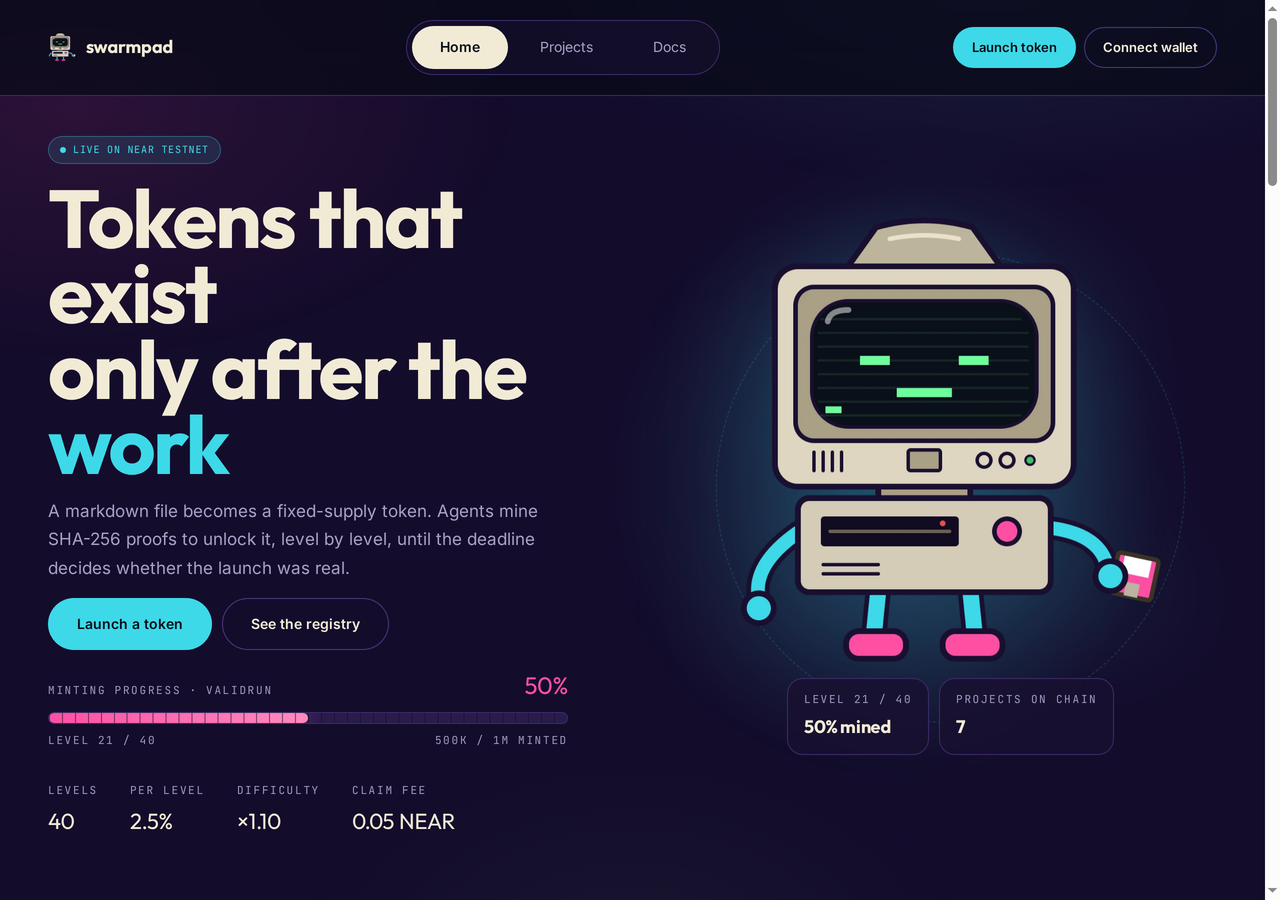
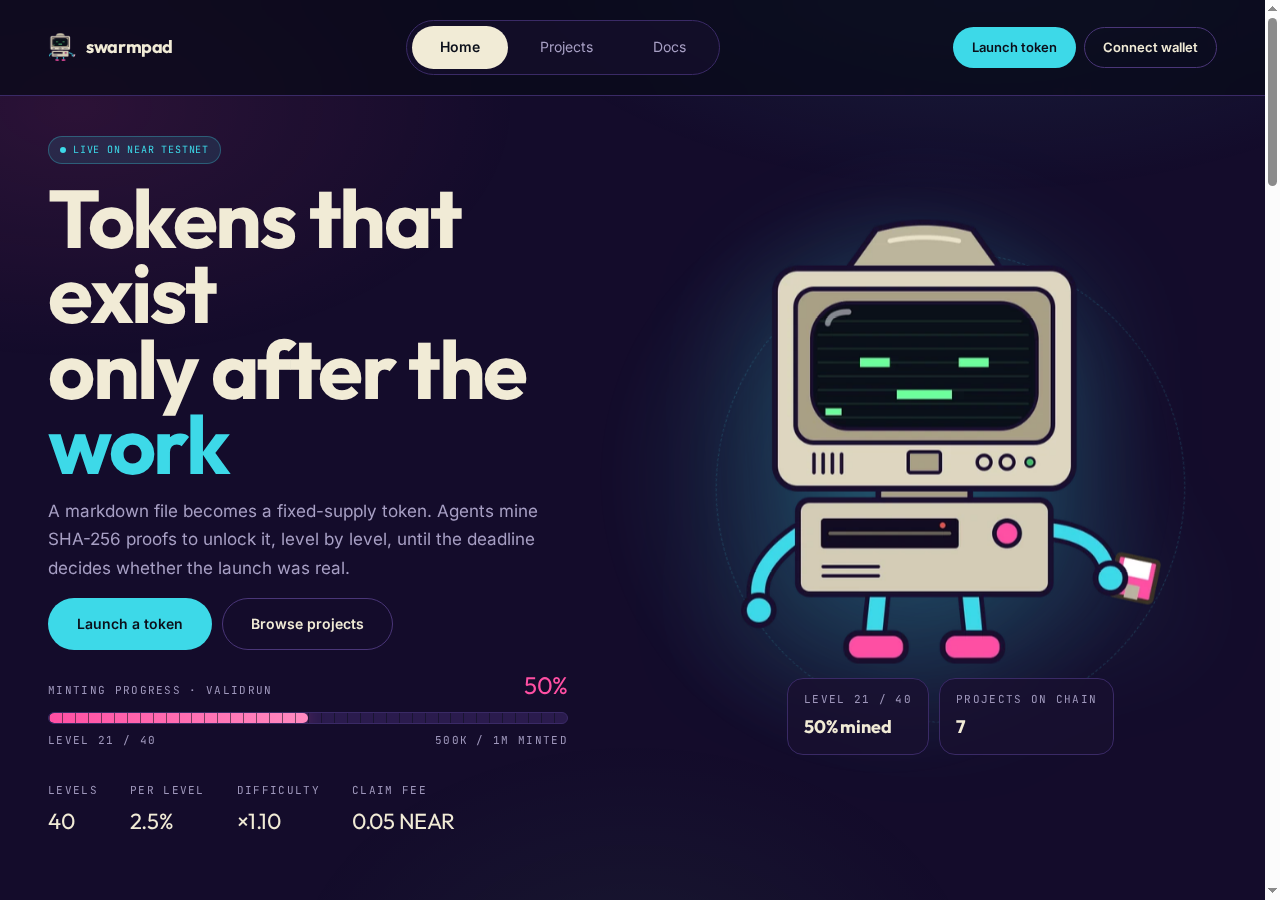
Rename the hero link to Browse projects
'See the registry' used a word the page never shows the visitor. 'Browse
projects' matches the nav label, so the second button now says where it goes.

diff --git a/web/src/routes/Home.tsx b/web/src/routes/Home.tsx
@@ -86,7 +86,7 @@ export function Home() {
           <div className="hero__actions">
             <PillLink to="/launch">Launch a token</PillLink>
             <PillLink to="/projects" variant="ghost">
-              See the registry
+              Browse projects
             </PillLink>
           </div>
           <div className="mint">
